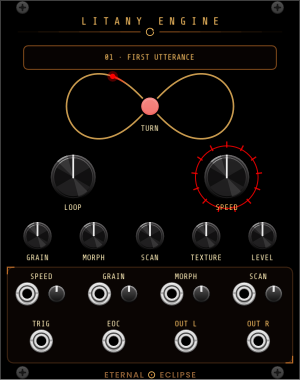
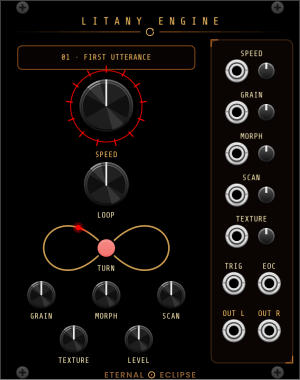
Litany Engine: two-column layout, huge SPEED, TEXTURE CV (OMN-90)
Left column top to bottom: display, SPEED (RoundHugeBlackKnob inside an
enlarged sigil ring, label clear of the ticks), LOOP, the tape-loop
lemniscate with TURN at the head, GRAIN/MORPH/SCAN, TEXTURE/LEVEL.
Right column is a full-height patch bay: SPEED, GRAIN, MORPH, SCAN and
the new TEXTURE jack + attenuverter pairs, then TRIG/EOC and OUT L/R.

diff --git a/src/LitanyEngine/LitanyEngine.cpp b/src/LitanyEngine/LitanyEngine.cpp
@@ -23,6 +23,7 @@ struct LitanyEngine : Module {
 		GRAIN_ATT_PARAM,
 		MORPH_ATT_PARAM,
 		SCAN_ATT_PARAM,
+		TEXTURE_ATT_PARAM,
 		PARAMS_LEN
 	};
 	enum InputId {
@@ -31,6 +32,7 @@ struct LitanyEngine : Module {
 		GRAIN_INPUT,
 		MORPH_INPUT,
 		SCAN_INPUT,
+		TEXTURE_INPUT,
 		INPUTS_LEN
 	};
 	enum OutputId {
@@ -73,12 +75,14 @@ struct LitanyEngine : Module {
 		configParam(GRAIN_ATT_PARAM, -1.f, 1.f, 0.f, "Grain CV amount");
 		configParam(MORPH_ATT_PARAM, -1.f, 1.f, 0.f, "Morph CV amount");
 		configParam(SCAN_ATT_PARAM, -1.f, 1.f, 0.f, "Scan CV amount");
+		configParam(TEXTURE_ATT_PARAM, -1.f, 1.f, 0.f, "Texture CV amount");
 
 		configInput(TRIG_INPUT, "Advance loop trigger");
 		configInput(SPEED_INPUT, "Speed CV");
 		configInput(GRAIN_INPUT, "Grain CV");
 		configInput(MORPH_INPUT, "Morph CV");
 		configInput(SCAN_INPUT, "Scan CV");
+		configInput(TEXTURE_INPUT, "Texture CV");
 		configOutput(OUTL_OUTPUT, "Left audio");
 		configOutput(OUTR_OUTPUT, "Right audio");
 		configOutput(EOC_OUTPUT, "End of loop");
@@ -130,7 +134,7 @@ struct LitanyEngine : Module {
 		p.grain = cvParam(GRAIN_PARAM, GRAIN_INPUT, GRAIN_ATT_PARAM);
 		p.morph = cvParam(MORPH_PARAM, MORPH_INPUT, MORPH_ATT_PARAM);
 		p.scan = cvParam(SCAN_PARAM, SCAN_INPUT, SCAN_ATT_PARAM);
-		p.texture = params[TEXTURE_PARAM].getValue();
+		p.texture = cvParam(TEXTURE_PARAM, TEXTURE_INPUT, TEXTURE_ATT_PARAM);
 
 		litany::GranularEngine::Out out = engine.process(view, p, args.sampleRate);
 		loopPhase.store(engine.phase01(), std::memory_order_relaxed);
@@ -231,8 +235,8 @@ struct LoopDisplay : TransparentWidget {
 // direction = playback speed; the splice ducks under the head as it passes. -----
 struct LemniscateDisplay : TransparentWidget {
 	LitanyEngine* module = NULL;
-	static constexpr float A_MM = 20.f;        // Bernoulli scale: half-width = A*sqrt2, half-height = A/2 * Y_STRETCH
-	static constexpr float Y_STRETCH = 1.1f;
+	static constexpr float A_MM = 15.f;        // Bernoulli scale: half-width = A*sqrt2, half-height = A/2 * Y_STRETCH
+	static constexpr float Y_STRETCH = 1.f;
 	static constexpr float HIDE_MM = 5.f;      // marker hidden under the TURN head at the crossing
 	static const NVGcolor SPLICE_COLOR;        // Abyssal Harmonics red, matches the sigil
 
@@ -312,19 +316,20 @@ struct LemniscateDisplay : TransparentWidget {
 const NVGcolor LemniscateDisplay::SPLICE_COLOR = nvgRGB(0xff, 0x00, 0x00);
 
 struct LitanyEngineWidget : ModuleWidget {
-	// 20 HP. Column grid shared by the CV bay and the jack row.
-	static constexpr float CX = 50.8f;
-	static constexpr float COL[4] = {14.f, 38.5f, 63.f, 87.5f};
-	static constexpr float JACK_DX = -4.8f, ATT_DX = 5.2f;
+	// 20 HP. Left column (center LX) holds the voice; the right column is the
+	// full-height patch bay (center BX) of jack + attenuverter pairs.
+	static constexpr float LX = 36.f, BX = 85.2f;
+	static constexpr float JACK_DX = -5.f, ATT_DX = 5.f;
 
 	void addLabel(Vec mmPos, const std::string& text, float fontSize = eclipse::LABEL_SIZE,
 	              NVGcolor color = eclipse::LABEL_COLOR) {
 		eclipse::addLabel(this, mmPos, text, fontSize, color);
 	}
 
-	void addCvPair(float x, float y, int inputId, int attParamId, LitanyEngine* module) {
-		addInput(createInputCentered<PJ301MPort>(mm2px(Vec(x + JACK_DX, y)), module, inputId));
-		addParam(createParamCentered<Trimpot>(mm2px(Vec(x + ATT_DX, y)), module, attParamId));
+	void addCvPair(float y, const char* label, int inputId, int attParamId, LitanyEngine* module) {
+		addLabel(Vec(BX, y - 5.7f), label);
+		addInput(createInputCentered<PJ301MPort>(mm2px(Vec(BX + JACK_DX, y)), module, inputId));
+		addParam(createParamCentered<Trimpot>(mm2px(Vec(BX + ATT_DX, y)), module, attParamId));
 	}
 
 	LitanyEngineWidget(LitanyEngine* module) {
@@ -336,66 +341,62 @@ struct LitanyEngineWidget : ModuleWidget {
 		addChild(createWidget<ScrewBlack>(Vec(RACK_GRID_WIDTH, RACK_GRID_HEIGHT - RACK_GRID_WIDTH)));
 		addChild(createWidget<ScrewBlack>(Vec(box.size.x - 2 * RACK_GRID_WIDTH, RACK_GRID_HEIGHT - RACK_GRID_WIDTH)));
 
-		eclipse::addHeader(this, CX, "L I T A N Y   E N G I N E");
+		eclipse::addHeader(this, 50.8f, "L I T A N Y   E N G I N E");
 
-		// Loop display over the bezel
+		// ===== Left column =====
 		LoopDisplay* display = new LoopDisplay;
 		display->module = module;
-		display->box.pos = mm2px(Vec(8.f, 15.5f));
-		display->box.size = mm2px(Vec(85.6f, 8.f));
+		display->box.pos = mm2px(Vec(6.f, 15.5f));
+		display->box.size = mm2px(Vec(60.f, 8.f));
 		addChild(display);
 
-		// Tape-loop lemniscate under the display, TURN at the head
+		// Varispeed: the huge knob inside the sigil ring (ring in the panel SVG)
+		addParam(createParamCentered<RoundHugeBlackKnob>(mm2px(Vec(LX, 36.f)), module, LitanyEngine::SPEED_PARAM));
+		addLabel(Vec(LX, 52.5f), "SPEED", eclipse::LABEL_SIZE, eclipse::ACCENT_COLOR);
+
+		addParam(createParamCentered<RoundBigBlackKnob>(mm2px(Vec(LX, 62.5f)), module, LitanyEngine::LOOP_PARAM));
+		addLabel(Vec(LX, 73.f), "LOOP");
+
+		// Tape-loop lemniscate, TURN at the head
 		LemniscateDisplay* tape = new LemniscateDisplay;
 		tape->module = module;
-		tape->box.pos = mm2px(Vec(CX - 31.f, 36.f - 13.f));
-		tape->box.size = mm2px(Vec(62.f, 26.f));
+		tape->box.pos = mm2px(Vec(LX - 23.f, 84.f - 9.f));
+		tape->box.size = mm2px(Vec(46.f, 18.f));
 		addChild(tape);
-		addParam(createLightParamCentered<VCVLightBezel<RedLight>>(mm2px(Vec(CX, 36.f)), module,
+		addParam(createLightParamCentered<VCVLightBezel<RedLight>>(mm2px(Vec(LX, 84.f)), module,
 			LitanyEngine::ADVANCE_PARAM, LitanyEngine::ADVANCE_LIGHT));
-		addLabel(Vec(CX, 43.6f), "TURN");
+		addLabel(Vec(LX, 91.f), "TURN");
 
-		// Liturgy row: loop select and varispeed (sigil ring around SPEED in the panel SVG)
-		addParam(createParamCentered<RoundBigBlackKnob>(mm2px(Vec(CX - 26.f, 60.f)), module, LitanyEngine::LOOP_PARAM));
-		addLabel(Vec(CX - 26.f, 70.4f), "LOOP");
-		addParam(createParamCentered<RoundBigBlackKnob>(mm2px(Vec(CX + 26.f, 60.f)), module, LitanyEngine::SPEED_PARAM));
-		addLabel(Vec(CX + 26.f, 70.4f), "SPEED", eclipse::LABEL_SIZE, eclipse::ACCENT_COLOR);
+		// Grain row
+		addParam(createParamCentered<RoundBlackKnob>(mm2px(Vec(14.f, 100.f)), module, LitanyEngine::GRAIN_PARAM));
+		addLabel(Vec(14.f, 107.2f), "GRAIN");
+		addParam(createParamCentered<RoundBlackKnob>(mm2px(Vec(LX, 100.f)), module, LitanyEngine::MORPH_PARAM));
+		addLabel(Vec(LX, 107.2f), "MORPH");
+		addParam(createParamCentered<RoundBlackKnob>(mm2px(Vec(58.f, 100.f)), module, LitanyEngine::SCAN_PARAM));
+		addLabel(Vec(58.f, 107.2f), "SCAN");
 
-		// Knob row: five across
-		static constexpr float ROW_X[5] = {12.7f, 31.75f, 50.8f, 69.85f, 88.9f};
-		addParam(createParamCentered<RoundBlackKnob>(mm2px(Vec(ROW_X[0], 80.f)), module, LitanyEngine::GRAIN_PARAM));
-		addLabel(Vec(ROW_X[0], 87.4f), "GRAIN");
-		addParam(createParamCentered<RoundBlackKnob>(mm2px(Vec(ROW_X[1], 80.f)), module, LitanyEngine::MORPH_PARAM));
-		addLabel(Vec(ROW_X[1], 87.4f), "MORPH");
-		addParam(createParamCentered<RoundBlackKnob>(mm2px(Vec(ROW_X[2], 80.f)), module, LitanyEngine::SCAN_PARAM));
-		addLabel(Vec(ROW_X[2], 87.4f), "SCAN");
-		addParam(createParamCentered<RoundBlackKnob>(mm2px(Vec(ROW_X[3], 80.f)), module, LitanyEngine::TEXTURE_PARAM));
-		addLabel(Vec(ROW_X[3], 87.4f), "TEXTURE");
-		addParam(createParamCentered<RoundBlackKnob>(mm2px(Vec(ROW_X[4], 80.f)), module, LitanyEngine::LEVEL_PARAM));
-		addLabel(Vec(ROW_X[4], 87.4f), "LEVEL");
+		// Bottom row
+		addParam(createParamCentered<RoundBlackKnob>(mm2px(Vec(25.f, 115.f)), module, LitanyEngine::TEXTURE_PARAM));
+		addLabel(Vec(25.f, 122.2f), "TEXTURE");
+		addParam(createParamCentered<RoundBlackKnob>(mm2px(Vec(47.f, 115.f)), module, LitanyEngine::LEVEL_PARAM));
+		addLabel(Vec(47.f, 122.2f), "LEVEL");
 
-		// CV bay: one row of jack + attenuverter pairs, label above each pair
-		struct BayEntry { const char* label; int inputId; int attId; };
-		static const BayEntry BAY[4] = {
-			{"SPEED", LitanyEngine::SPEED_INPUT, LitanyEngine::SPEED_ATT_PARAM},
-			{"GRAIN", LitanyEngine::GRAIN_INPUT, LitanyEngine::GRAIN_ATT_PARAM},
-			{"MORPH", LitanyEngine::MORPH_INPUT, LitanyEngine::MORPH_ATT_PARAM},
-			{"SCAN", LitanyEngine::SCAN_INPUT, LitanyEngine::SCAN_ATT_PARAM},
-		};
-		for (int i = 0; i < 4; i++) {
-			addLabel(Vec(COL[i], 93.8f), BAY[i].label);
-			addCvPair(COL[i], 99.5f, BAY[i].inputId, BAY[i].attId, module);
-		}
+		// ===== Right column: patch bay =====
+		addCvPair(24.f, "SPEED", LitanyEngine::SPEED_INPUT, LitanyEngine::SPEED_ATT_PARAM, module);
+		addCvPair(38.f, "GRAIN", LitanyEngine::GRAIN_INPUT, LitanyEngine::GRAIN_ATT_PARAM, module);
+		addCvPair(52.f, "MORPH", LitanyEngine::MORPH_INPUT, LitanyEngine::MORPH_ATT_PARAM, module);
+		addCvPair(66.f, "SCAN", LitanyEngine::SCAN_INPUT, LitanyEngine::SCAN_ATT_PARAM, module);
+		addCvPair(80.f, "TEXTURE", LitanyEngine::TEXTURE_INPUT, LitanyEngine::TEXTURE_ATT_PARAM, module);
 
-		// Jack row: trig / eoc / stereo out
-		addLabel(Vec(COL[0], 109.8f), "TRIG");
-		addInput(createInputCentered<PJ301MPort>(mm2px(Vec(COL[0], 115.5f)), module, LitanyEngine::TRIG_INPUT));
-		addLabel(Vec(COL[1], 109.8f), "EOC");
-		addOutput(createOutputCentered<PJ301MPort>(mm2px(Vec(COL[1], 115.5f)), module, LitanyEngine::EOC_OUTPUT));
-		addLabel(Vec(COL[2], 109.8f), "OUT L", eclipse::LABEL_SIZE, eclipse::ACCENT_COLOR);
-		addOutput(createOutputCentered<PJ301MPort>(mm2px(Vec(COL[2], 115.5f)), module, LitanyEngine::OUTL_OUTPUT));
-		addLabel(Vec(COL[3], 109.8f), "OUT R", eclipse::LABEL_SIZE, eclipse::ACCENT_COLOR);
-		addOutput(createOutputCentered<PJ301MPort>(mm2px(Vec(COL[3], 115.5f)), module, LitanyEngine::OUTR_OUTPUT));
+		addLabel(Vec(BX - 6.f, 90.3f), "TRIG");
+		addInput(createInputCentered<PJ301MPort>(mm2px(Vec(BX - 6.f, 96.f)), module, LitanyEngine::TRIG_INPUT));
+		addLabel(Vec(BX + 6.f, 90.3f), "EOC");
+		addOutput(createOutputCentered<PJ301MPort>(mm2px(Vec(BX + 6.f, 96.f)), module, LitanyEngine::EOC_OUTPUT));
+
+		addLabel(Vec(BX - 6.f, 106.3f), "OUT L", eclipse::LABEL_SIZE, eclipse::ACCENT_COLOR);
+		addOutput(createOutputCentered<PJ301MPort>(mm2px(Vec(BX - 6.f, 112.f)), module, LitanyEngine::OUTL_OUTPUT));
+		addLabel(Vec(BX + 6.f, 106.3f), "OUT R", eclipse::LABEL_SIZE, eclipse::ACCENT_COLOR);
+		addOutput(createOutputCentered<PJ301MPort>(mm2px(Vec(BX + 6.f, 112.f)), module, LitanyEngine::OUTR_OUTPUT));
 	}
 };
 

diff --git a/README.md b/README.md
@@ -149,7 +149,7 @@ granular layer is Morphagene-inspired: GRAIN sweeps grain length from the whole
 loop (plain looped playback with a crossfaded loop point) down to 15 ms, MORPH
 raises grain overlap from single grains to an eight-deep lattice, SCAN offsets
 where grains are drawn from the loop, and TEXTURE adds position spray and stereo
-pan spread. SPEED, GRAIN, MORPH and SCAN each have a CV input with an attenuverter;
+pan spread. SPEED, GRAIN, MORPH, SCAN and TEXTURE each have a CV input with an attenuverter;
 EOC emits a pulse each time the tape wraps. Loops are decoded once on a background
 thread and shared across instances. Stereo out at ±5 V — patch it into the Coronal
 Annihilator's external input to run the litany through a neural amp model.

diff --git a/CHANGELOG.md b/CHANGELOG.md
@@ -8,7 +8,7 @@
   layer: through-zero tape varispeed, grain size from whole-loop down
   to 15 ms, morphing overlap to 8x, scan offset and texture spray with
   stereo pan spread. Loop display with playhead, TURN/TRIG loop
-  advance, EOC pulse output, CV with attenuverters on the four main
+  advance, EOC pulse output, CV with attenuverters on the five main
   controls. Loops decode once on a background thread and are shared by
   all instances. Current bank is placeholder material — final branded
   loops drop into res/litany/ (see the README there for the contract).
